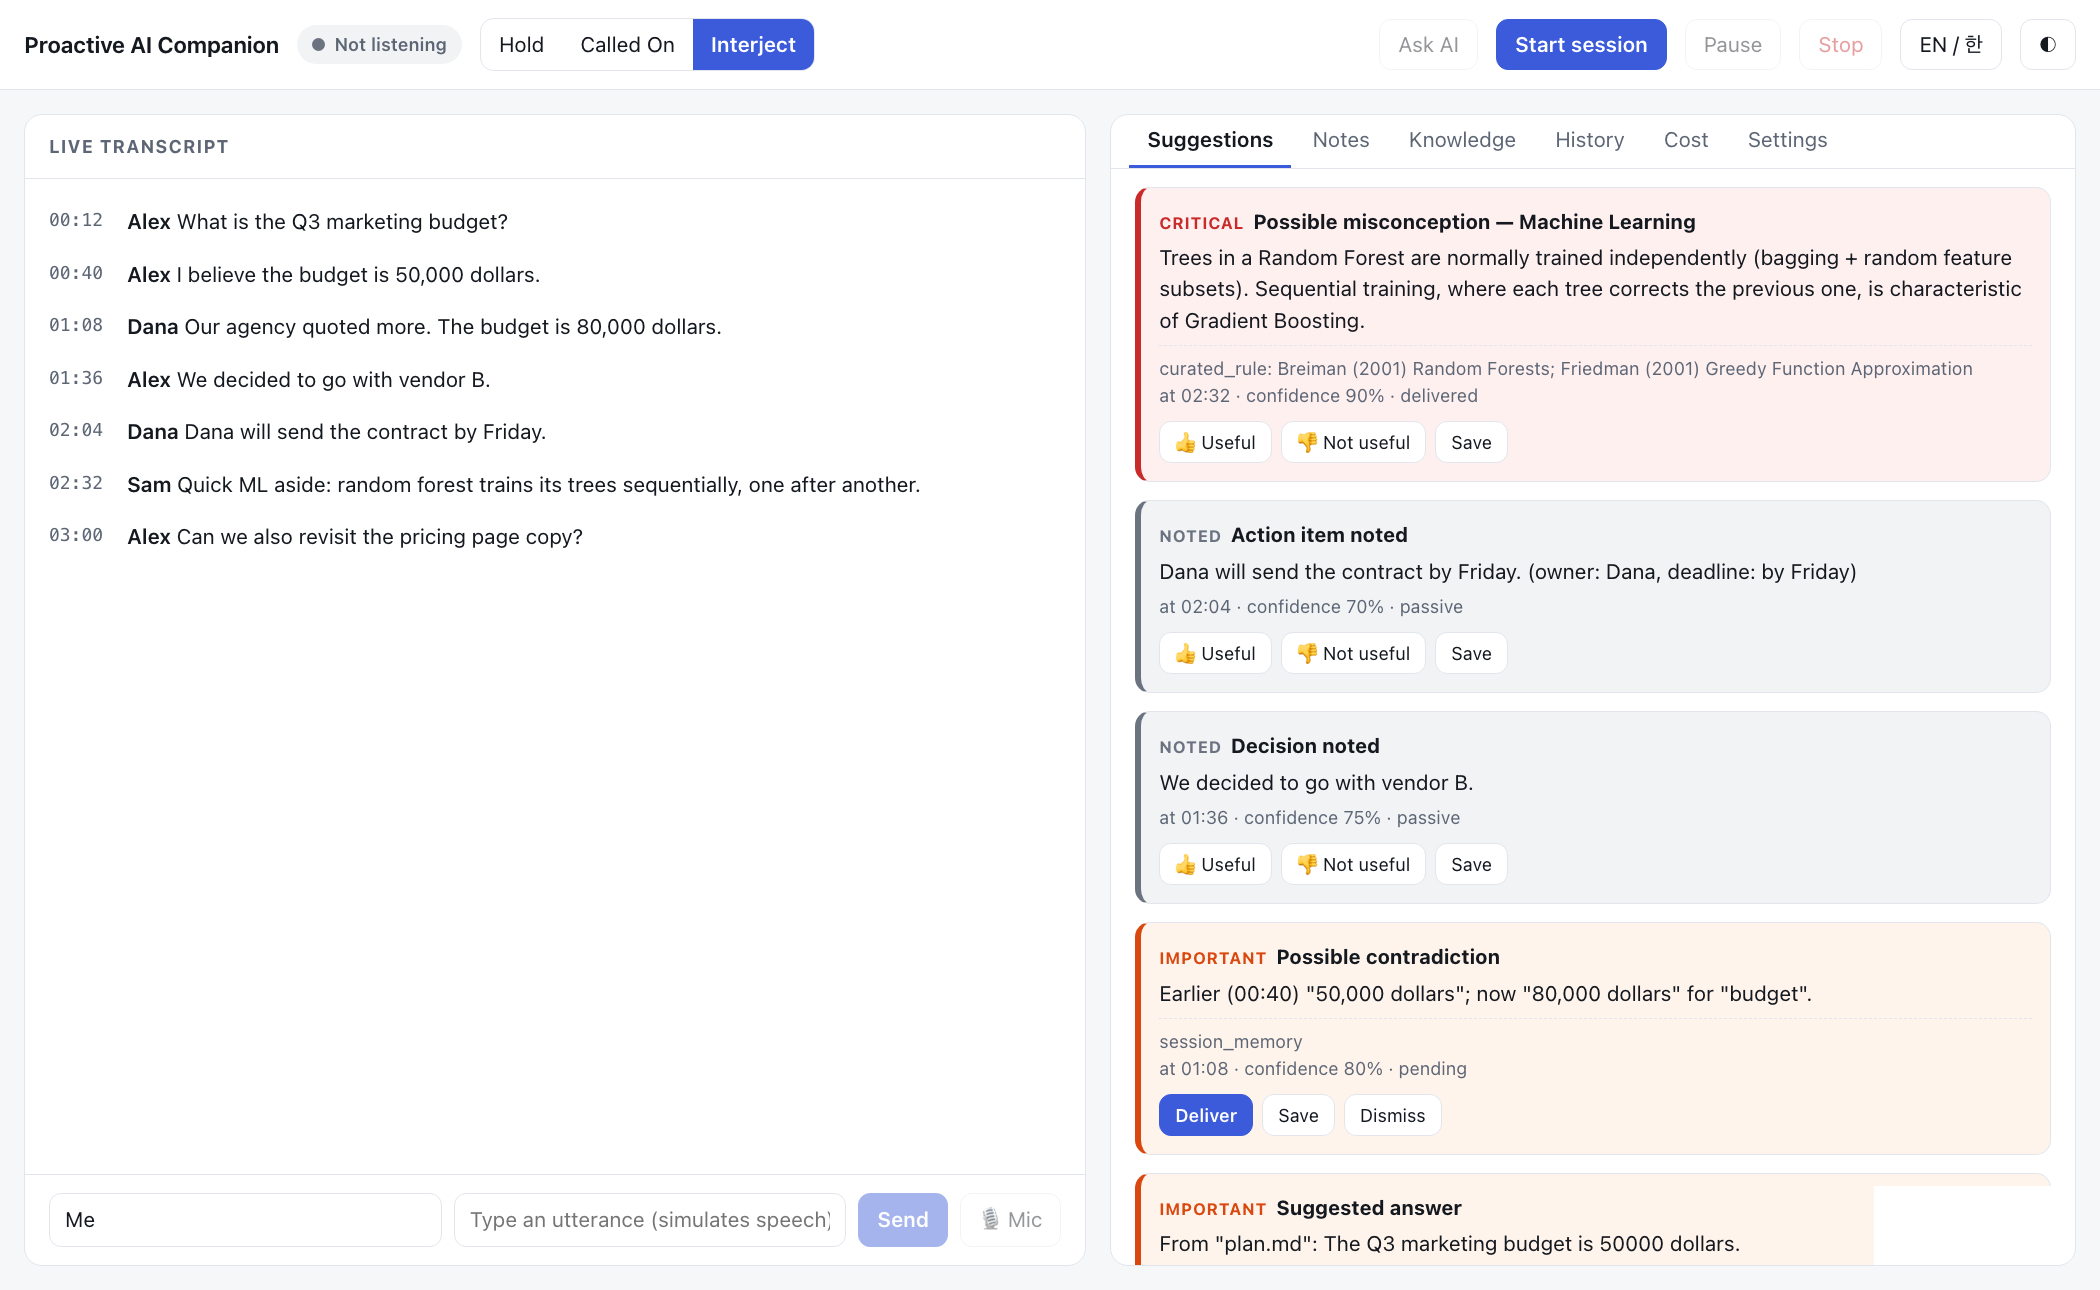
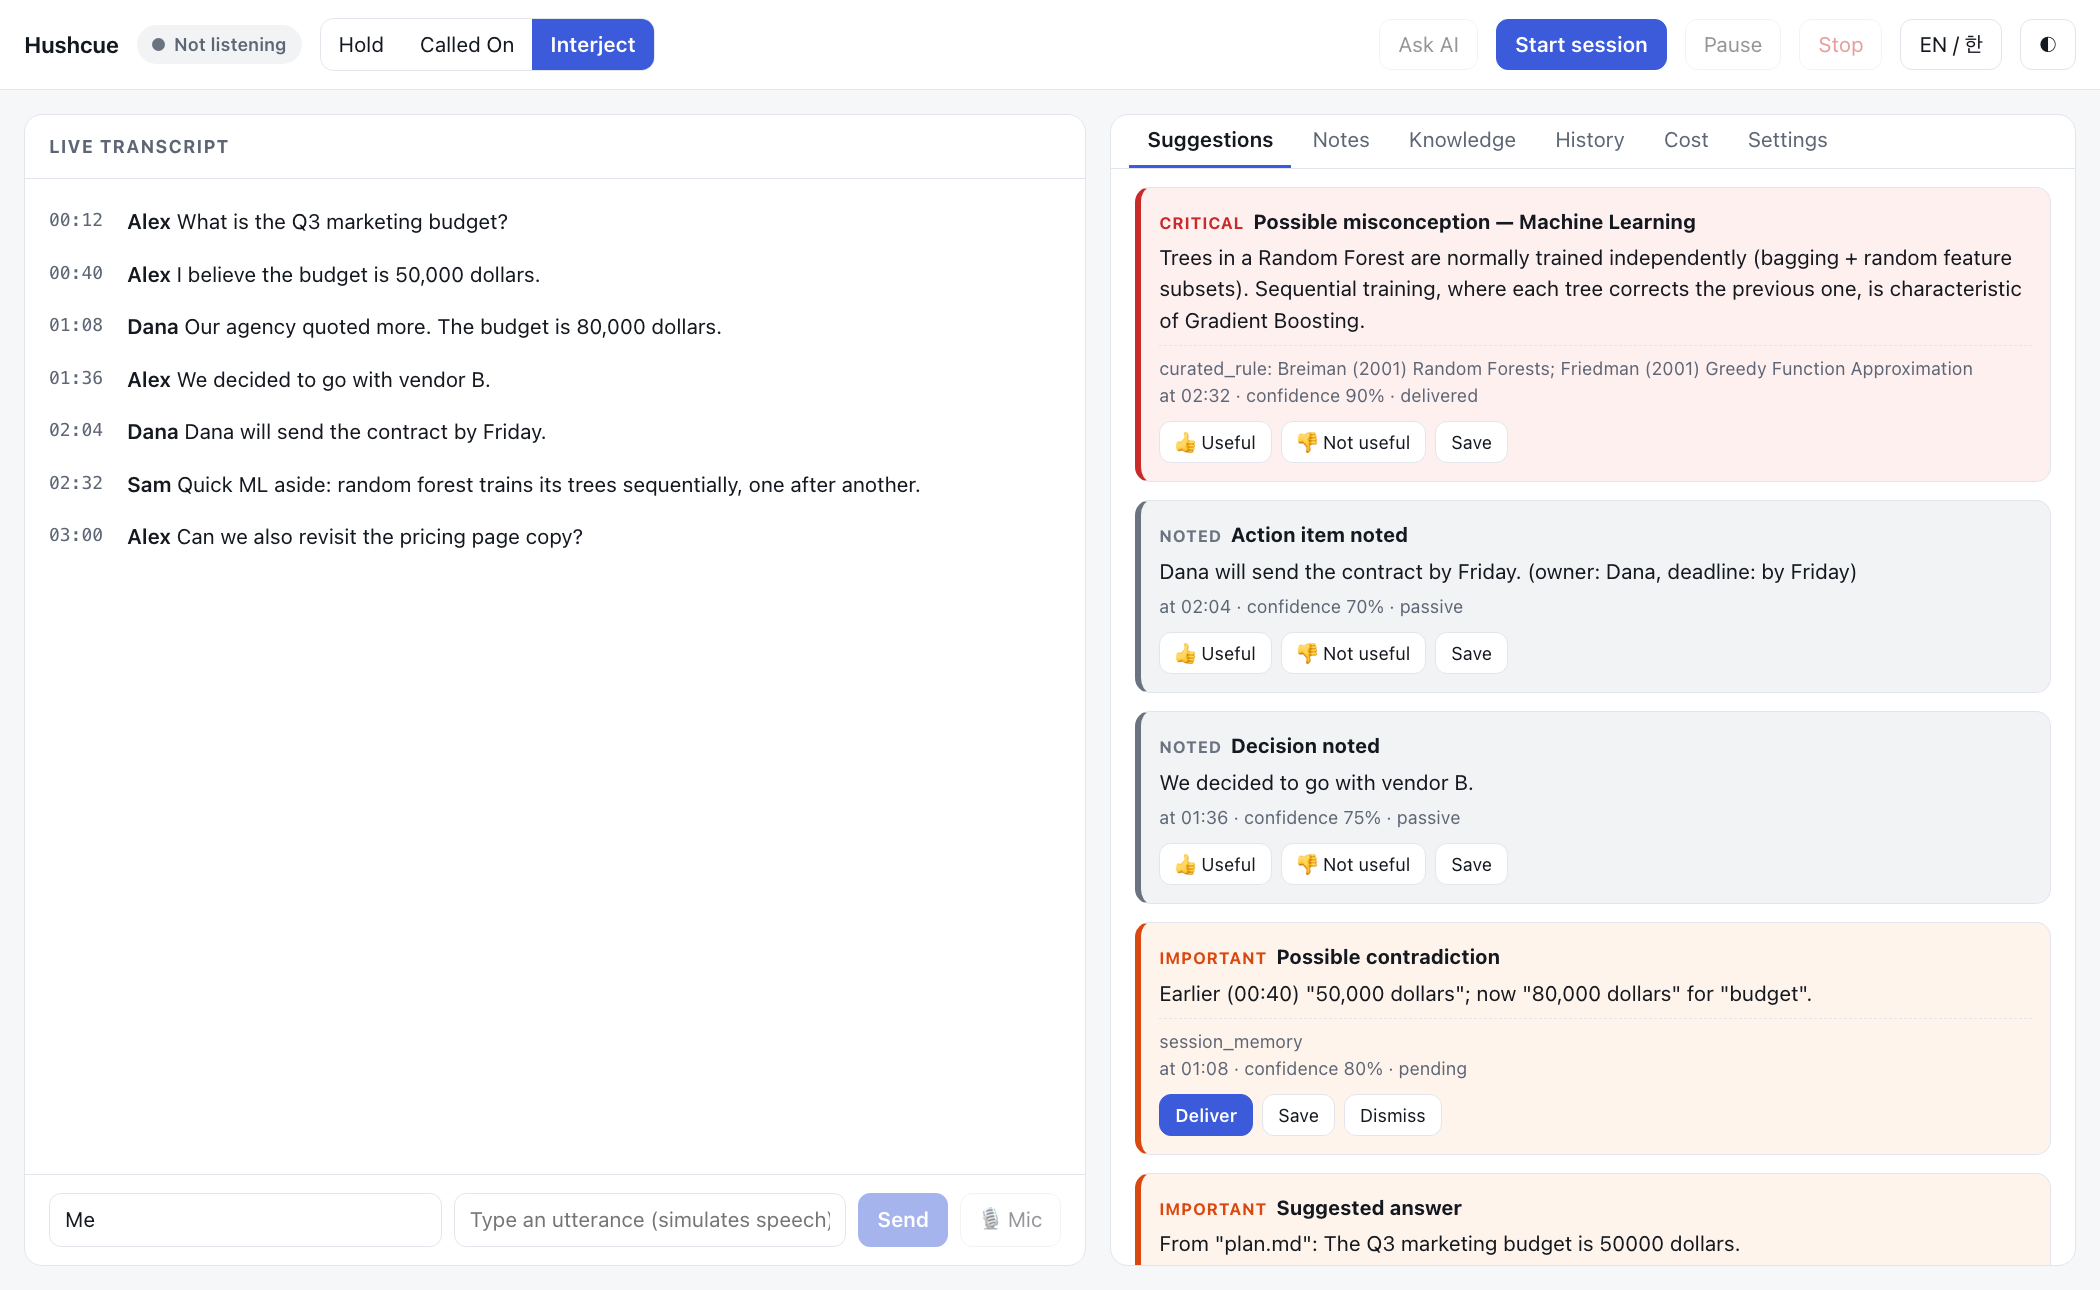
Rename product to Hushcue; add plain-language product description (EN/KO); refresh screenshots

Changed region(s): [[0.0, 0.0, 0.4024, 0.062]]

diff --git a/static/index.html b/static/index.html
@@ -3,7 +3,7 @@
 <head>
 <meta charset="utf-8">
 <meta name="viewport" content="width=device-width,initial-scale=1">
-<title>Proactive AI Companion</title>
+<title>Hushcue</title>
 <style>
 :root{--bg:#f6f7f9;--surface:#fff;--surface2:#f0f2f5;--text:#14181f;--muted:#5d6675;--line:#e2e6ec;--accent:#3b5bdb;--accent-ink:#fff;
 --crit:#c92a2a;--crit-bg:#fff0f0;--imp:#d9480f;--imp-bg:#fff4ec;--sug:#1971c2;--sug-bg:#edf5ff;--pas:#6b7280;--pas-bg:#f1f3f5;--ok:#2b8a3e;
@@ -63,7 +63,7 @@ ul.clean{margin:4px 0 12px;padding-left:18px}h4{margin:14px 0 2px;font-size:13px
 <body>
 <div class="app">
 <header>
-  <h1>Proactive AI Companion</h1>
+  <h1>Hushcue</h1>
   <span class="rec" id="rec" role="status" aria-live="polite"><span class="dot"></span><span id="recText">Not listening</span></span>
   <div class="seg" role="group" aria-label="Intervention mode" id="modes">
     <button data-mode="hold" aria-pressed="true" data-i18n="m_hold" data-i18n-title="m_hold_t">Hold</button>
@@ -132,7 +132,7 @@ const I={en:{ask:'Ask AI',start:'Start session',pause:'Pause',resume:'Resume',st
  idle:'Not listening',listening:'Listening — session active',paused:'Paused',stt_na:'Browser STT unavailable — typed input only',
  c_title:'Start a session',c_name:'Title',c_profile:'Profile',p_meeting:'Meeting',p_learning:'Learning',p_work:'Work',c_lang:'Speech language',
  c_consent:'I understand this session will capture and transcribe speech, and that <b>everyone being recorded has been informed</b> and, where the law requires, has consented.',
- c_audio:'Also save an audio recording on this computer (optional).',c_note:"Speech-to-text uses your browser's Web Speech API. In Chrome and Safari the browser vendor may process audio in the cloud. Companion itself keeps data in a local SQLite file and sends nothing to any LLM unless you configured a provider on the server.",cancel:'Cancel',c_go:'Start listening',
+ c_audio:'Also save an audio recording on this computer (optional).',c_note:"Speech-to-text uses your browser's Web Speech API. In Chrome and Safari the browser vendor may process audio in the cloud. Hushcue itself keeps data in a local SQLite file and sends nothing to any LLM unless you configured a provider on the server.",cancel:'Cancel',c_go:'Start listening',
  critical:'Critical',important:'Important',suggestion:'Suggestion',passive:'Noted',deliver:'Deliver',save:'Save',dismiss:'Dismiss',useful:'👍 Useful',not_useful:'👎 Not useful',at:'at',conf:'confidence',asked:'you asked',unverified:'unverified, model-generated',
  feed_empty:'Nothing to suggest yet. The companion stays quiet until something is worth your attention.',pick_session:'Start or open a session.',local_note:'(extractive, generated locally)',
  n_dec:'Decisions',n_act:'Action items',n_unres:'Unresolved questions',n_con:'Contradictions',n_err:'Possible errors',n_fu:'Follow-ups',none:'None',owner:'owner',deadline:'deadline',not_stated:'not stated',exp_md:'Export Markdown',exp_json:'Export JSON',
@@ -140,14 +140,14 @@ const I={en:{ask:'Ask AI',start:'Start session',pause:'Pause',resume:'Resume',st
  h_search:'Search sessions and transcripts…',open:'Open',del:'Delete',h_none:'No sessions',h_confirm:'Permanently delete this session, transcript and audio?',
  co_proc:'Processing',co_calls:'Cloud LLM calls',co_tok:'Tokens in / out',co_cost:'LLM cost (estimate)',co_stt:'STT cost',co_local:'Local events',co_lat:'Server latency p50 / p95',co_dis:'Dismissed',co_fb:'Useful / not useful',browser:'$0 (browser)',
  s_start:'Start a session to edit its settings.',s_inter:'Interject score threshold',s_conf:'Confidence threshold',s_cool:'Cooldown (s)',s_max:'Max interruptions',s_dnd:'Do not disturb (cards only, never interject)',s_soc:'Socratic mode (hints instead of answers)',s_voice:'Speak delivered suggestions aloud (OS text-to-speech)',s_apply:'Apply',s_short:'Shortcuts: Ctrl/⌘+K ask AI · Ctrl/⌘+Enter send · Ctrl/⌘+P pause.',s_ok:'Settings applied',
- v_confirmed_error:'confirmed error',v_needs_verification:'needs verification',companion:'Companion',stt_err:'STT error: ',mic_denied:' (microphone permission denied)',listen:'Listening…',audio_na:'Audio recording unavailable: '},
+ v_confirmed_error:'confirmed error',v_needs_verification:'needs verification',companion:'Hushcue',stt_err:'STT error: ',mic_denied:' (microphone permission denied)',listen:'Listening…',audio_na:'Audio recording unavailable: '},
 ko:{ask:'AI에게 질문',start:'세션 시작',pause:'일시정지',resume:'재개',stop:'종료',m_hold:'보류',m_hold_t:'AI가 제안을 준비하고 사용자가 승인합니다',m_called:'호출 시',m_called_t:'호출할 때만 AI가 답합니다 (Ctrl/⌘+K)',m_inter:'능동 개입',m_inter_t:'확신이 높고 가치가 있을 때 AI가 먼저 끼어듭니다',
  transcript:'실시간 대화 기록',empty_tr:'세션을 시작한 뒤 말하거나(브라우저 음성 인식) 아래에 입력하세요.',no_utt:'아직 발화가 없습니다.',speaker:'화자',utt_ph:'발화를 입력하세요 (음성 대신 입력)…',send:'보내기',mic:'🎙 마이크',mic_on:'⏹ 마이크 켜짐',
  tab_feed:'제안',tab_notes:'노트',tab_evidence:'지식',tab_history:'기록',tab_cost:'비용',tab_settings:'설정',
  idle:'듣지 않는 중',listening:'듣는 중 — 세션 진행',paused:'일시정지',stt_na:'브라우저 음성 인식을 사용할 수 없어 텍스트 입력만 가능합니다',
  c_title:'세션 시작',c_name:'제목',c_profile:'유형',p_meeting:'회의',p_learning:'학습',p_work:'업무',c_lang:'음성 인식 언어',
  c_consent:'이 세션에서 음성이 수집·텍스트로 변환된다는 점을 이해하며, <b>녹음되는 모든 사람에게 고지했고</b> 법적으로 필요한 경우 동의를 받았습니다.',
- c_audio:'이 컴퓨터에 음성 녹음도 저장합니다 (선택).',c_note:'음성 인식은 브라우저의 Web Speech API를 사용합니다. Chrome과 Safari에서는 브라우저 제공사가 음성을 클라우드에서 처리할 수 있습니다. Companion 자체는 데이터를 로컬 SQLite 파일에 저장하며, 서버에 제공자를 설정하지 않는 한 LLM으로 아무것도 전송하지 않습니다.',cancel:'취소',c_go:'듣기 시작',
+ c_audio:'이 컴퓨터에 음성 녹음도 저장합니다 (선택).',c_note:'음성 인식은 브라우저의 Web Speech API를 사용합니다. Chrome과 Safari에서는 브라우저 제공사가 음성을 클라우드에서 처리할 수 있습니다. Hushcue 자체는 데이터를 로컬 SQLite 파일에 저장하며, 서버에 제공자를 설정하지 않는 한 LLM으로 아무것도 전송하지 않습니다.',cancel:'취소',c_go:'듣기 시작',
  critical:'중요(긴급)',important:'중요',suggestion:'제안',passive:'기록됨',deliver:'전달',save:'저장',dismiss:'무시',useful:'👍 도움됨',not_useful:'👎 도움 안 됨',at:'시점',conf:'신뢰도',asked:'직접 질문',unverified:'미검증, 모델 생성',st_delivered:'전달됨',st_pending:'대기 중',st_passive:'기록됨',st_approved:'승인됨',st_dismissed:'무시됨',st_saved:'저장됨',st_active:'진행 중',st_paused:'일시정지',st_stopped:'종료됨',sk_curated_rule:'큐레이션 규칙',sk_user_document:'내 문서',sk_session_memory:'세션 기억',sk_model_generated:'모델 생성',
  feed_empty:'아직 제안할 내용이 없습니다. 주의가 필요한 순간이 올 때까지 조용히 기다립니다.',pick_session:'세션을 시작하거나 여세요.',local_note:'(추출식 요약, 로컬 생성)',
  n_dec:'결정사항',n_act:'할 일',n_unres:'미해결 질문',n_con:'모순',n_err:'오류 가능성',n_fu:'후속 조치',none:'없음',owner:'담당',deadline:'기한',not_stated:'언급 없음',exp_md:'Markdown 내보내기',exp_json:'JSON 내보내기',
@@ -155,7 +155,7 @@ ko:{ask:'AI에게 질문',start:'세션 시작',pause:'일시정지',resume:'재
  h_search:'세션과 대화 기록 검색…',open:'열기',del:'삭제',h_none:'세션 없음',h_confirm:'이 세션과 대화 기록, 녹음을 영구 삭제할까요?',
  co_proc:'처리 방식',co_calls:'클라우드 LLM 호출',co_tok:'토큰 입력 / 출력',co_cost:'LLM 비용 (추정)',co_stt:'음성 인식 비용',co_local:'로컬 이벤트',co_lat:'서버 지연 p50 / p95',co_dis:'무시함',co_fb:'도움됨 / 도움 안 됨',browser:'$0 (브라우저)',
  s_start:'세션을 시작하면 설정을 바꿀 수 있습니다.',s_inter:'개입 점수 임계값',s_conf:'신뢰도 임계값',s_cool:'쿨다운(초)',s_max:'최대 개입 횟수',s_dnd:'방해 금지 (카드만 표시, 끼어들지 않음)',s_soc:'소크라테스 모드 (정답 대신 힌트)',s_voice:'전달된 제안을 음성으로 읽기 (OS 음성 합성)',s_apply:'적용',s_short:'단축키: Ctrl/⌘+K AI 질문 · Ctrl/⌘+Enter 보내기 · Ctrl/⌘+P 일시정지',s_ok:'설정을 적용했습니다',
- v_confirmed_error:'확인된 오류',v_needs_verification:'확인 필요',companion:'Companion',stt_err:'음성 인식 오류: ',mic_denied:' (마이크 권한이 거부됨)',listen:'듣는 중…',audio_na:'녹음을 사용할 수 없음: '}};
+ v_confirmed_error:'확인된 오류',v_needs_verification:'확인 필요',companion:'Hushcue',stt_err:'음성 인식 오류: ',mic_denied:' (마이크 권한이 거부됨)',listen:'듣는 중…',audio_na:'녹음을 사용할 수 없음: '}};
 let LANG='en';try{LANG=new URLSearchParams(location.search).get('lang')||localStorage.getItem('lang')||((navigator.language||'').startsWith('ko')?'ko':'en')}catch{}
 if(!I[LANG])LANG='en';
 const t=k=>I[LANG][k]??I.en[k]??k;const tl=(p,v)=>I[LANG][p+v]??v;

diff --git a/app/main.py b/app/main.py
@@ -62,7 +62,7 @@ def create_app(data_dir: str | None = None, provider: Provider | None = None) ->
     if days > 0:
         storage.purge_older_than(days)
     engine = Engine(storage, provider or provider_from_env())
-    app = FastAPI(title="Proactive AI Companion", version="0.1.0")
+    app = FastAPI(title="Hushcue", version="0.1.0")
     app.state.engine = engine
 
     @app.exception_handler(SessionError)

diff --git a/README.ko.md b/README.ko.md
@@ -1,13 +1,36 @@
-# Proactive AI Companion (가칭 — 상표 충돌 확인 전)
+# Hushcue
+
+**듣고 있다가, 필요할 때만 말해요.**
 
 [English](README.md) | **한국어**
+
 
 ![실시간 제안 (한국어 UI)](docs/img/ko-feed.png)
 ![세션 노트 (한국어 UI)](docs/img/ko-notes.png)
 
 *스크린샷은 `scripts/seed_demo.py`로 만든 가상의 안전한 데모 데이터이며 실제 대화가 아닙니다.*
 
-회의·공부·업무 중 사용자가 명시적으로 켠 세션 동안 대화를 듣고, **묻기 전에 먼저 도와주는** 동반자입니다. 질문, 개념 오류, 앞뒤가 안 맞는 말을 감지해 보류 카드, 호출 시 답변, 능동 개입 중 하나로 보여 주며, 모든 개입은 사용자가 정한 정책 조건을 통과해야 합니다.
+## Hushcue는 무엇인가요?
+Hushcue는 **회의·공부·업무** 중에 필요할 때 말해주는 실시간 AI 동료입니다. 세션을 켜면(동의한 뒤에만) 대화를 듣다가, 짚어줄 만한 것이 나오면 조용히 알아챕니다.
+
+- **틀린 말**: 예) "Random Forest는 트리를 차례대로 학습한다"
+- **앞뒤가 안 맞는 말**: 예) "예산 5000만원" → 나중에 "예산 8000만원"
+- **답이 안 나온 질문**
+- 방금 나온 **결정사항**과 **할 일** (담당자·기한은 실제로 말한 경우에만 표시)
+
+그다음 **얼마나 크게 알릴지**를 스스로 판단합니다. 모드는 직접 고릅니다.
+
+| 모드 | 동작 | 이럴 때 |
+|---|---|---|
+| **보류** (기본) | 절대 끼어들지 않고, 조용한 카드로 쌓아 둡니다. 승인·저장·무시는 내가 정합니다. | 회의, 강의 |
+| **호출 시** | 내가 물어볼 때만 답합니다. | 집중해서 일할 때 |
+| **능동 개입** | 실시간으로 말하되, 정책 조건(중요도, 신뢰도, 쿨다운, 최대 횟수, 방해 금지, 내가 말하는 중이 아닐 것)을 모두 통과할 때만 말합니다. 막히면 카드로 바뀝니다. | 틀리면 곤란한 순간 |
+
+모든 판단은 기록되어서, Hushcue가 왜 말했는지 또는 왜 조용했는지 확인할 수 있습니다. 끝나면 결정사항, 할 일, 미해결 질문이 타임스탬프와 함께 정리된 노트가 나옵니다.
+
+**기본이 프라이버시**: 데이터는 내 컴퓨터의 SQLite 파일에만 저장되고, LLM을 직접 연결하지 않으면 아무것도 밖으로 나가지 않습니다. 세션은 명시적 동의가 있어야 시작되고, 언제든 삭제할 수 있습니다.
+
+*이름: 웹 검색에서 "Hushcue"와 같은 이름의 제품은 발견되지 않았습니다. 정식 상표 조사는 아직 하지 않았습니다.*
 
 **상태: Phase 1 수직 슬라이스 + Phase 2 일부.** 구현된 것과 아닌 것은 [docs/DEVELOPMENT_ROADMAP.md](docs/DEVELOPMENT_ROADMAP.md)에 정확히 정리했습니다(문서 본문은 영어).
 

diff --git a/README.md b/README.md
@@ -1,9 +1,31 @@
-# Proactive AI Companion (working name — trademark check pending)
+# Hushcue
 
-
-An always-on (per explicit session) companion that listens during meetings, study or work and **helps before you ask**: it detects questions, misconceptions and contradictions, and surfaces them as Hold cards, on-demand answers, or live interjections — under policy gates you control.
+**Listens live. Speaks up when it matters.**
 
 **English** | [한국어](README.ko.md)
+
+## What is Hushcue?
+Hushcue is a live AI companion for **meetings, study and work**. You switch it on for a session and it listens (only after you consent). While people talk, it quietly watches for things worth flagging:
+
+- a **wrong claim** (e.g. "Random Forest trains its trees one after another"),
+- a number that **contradicts** what was said earlier ("budget is 50M" → "budget is 80M"),
+- a **question** nobody answered,
+- a **decision** or an **action item** that was just made (with owner and deadline only if someone actually said them).
+
+Then it decides **how loudly** to tell you. You choose the mode:
+
+| Mode | Behaviour | Good for |
+|---|---|---|
+| **Hold** (default) | Never interrupts. Saves quiet cards that you approve, save or dismiss. | Meetings, lectures |
+| **Called On** | Answers only when you ask it. | Focused work |
+| **Interject** | Speaks up live, but only if every policy gate passes (importance, confidence, cooldown, max interruptions, do-not-disturb, not while you are talking). A blocked interjection becomes a card instead. | When a mistake would be costly |
+
+Every decision is logged, so you can see *why* Hushcue spoke or stayed quiet. At the end you get notes with decisions, action items and open questions, each linked to a timestamp.
+
+**Privacy by default:** data stays in a local SQLite file; nothing goes to an LLM unless you configure a provider; sessions need explicit consent; you can delete a session at any time.
+
+*Name: a web search found no product with the exact name "Hushcue"; formal trademark clearance has not been done.*
+
 
 ![Live suggestions (English UI)](docs/img/en-feed.png)
 ![Session notes (English UI)](docs/img/en-notes.png)
